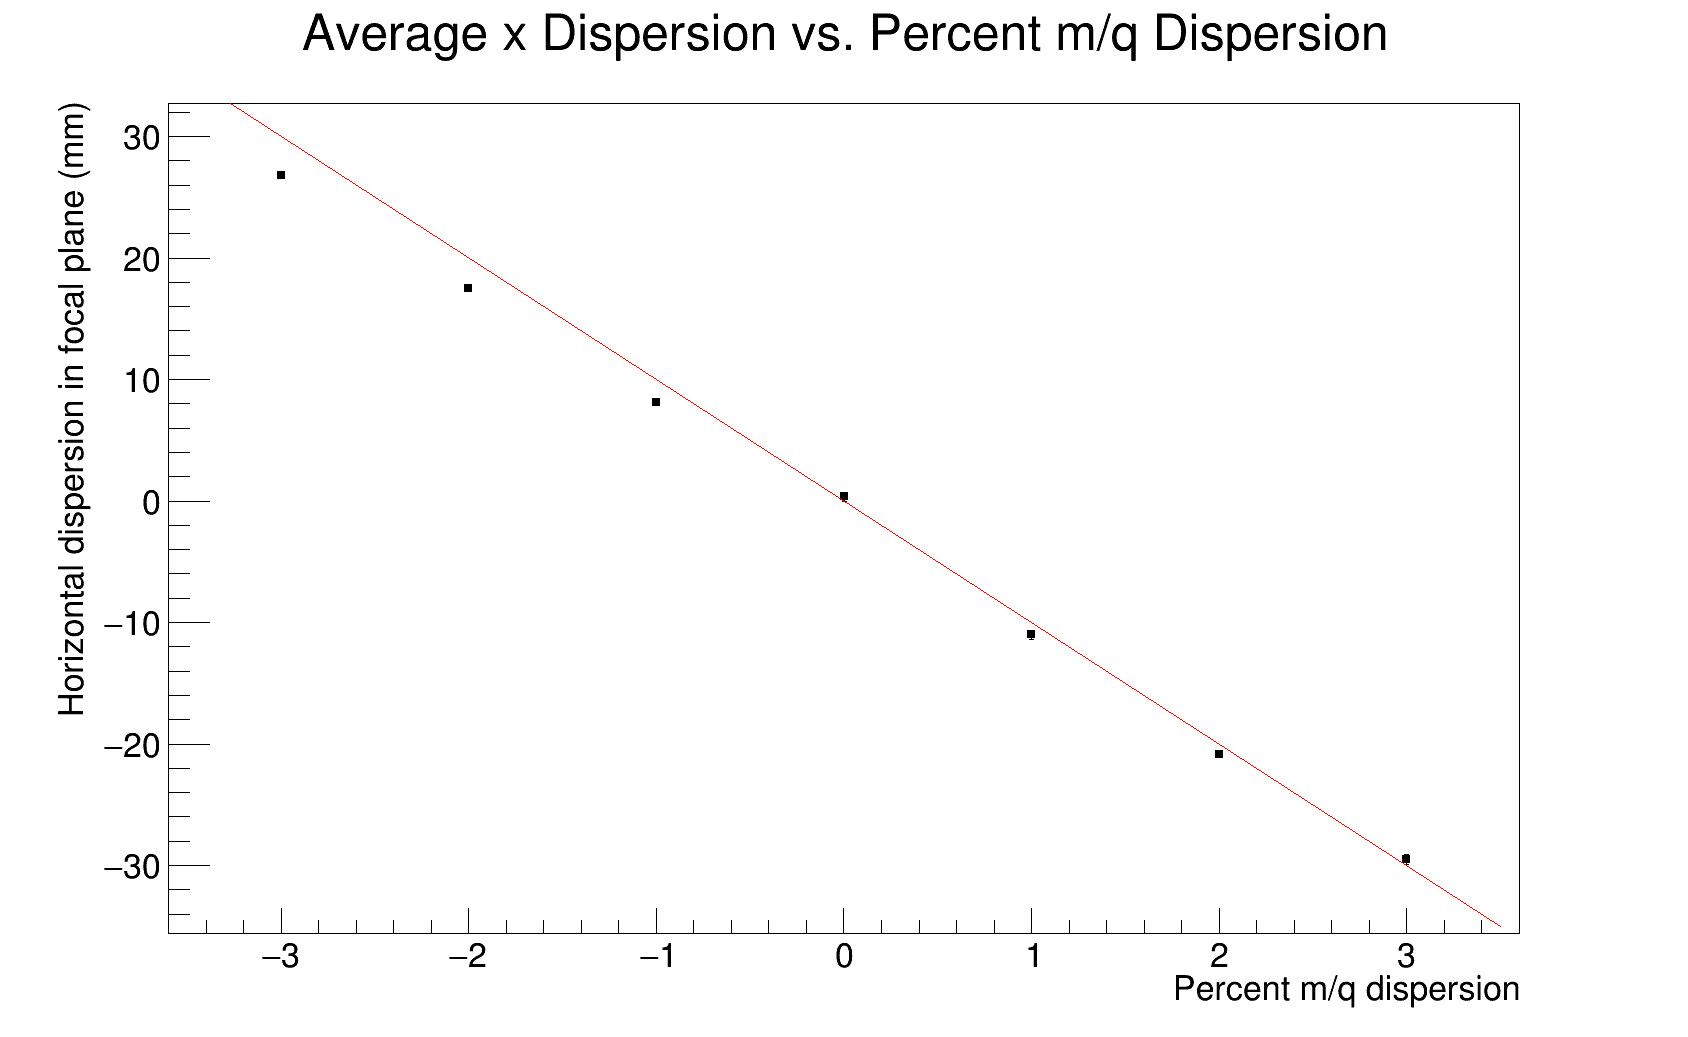
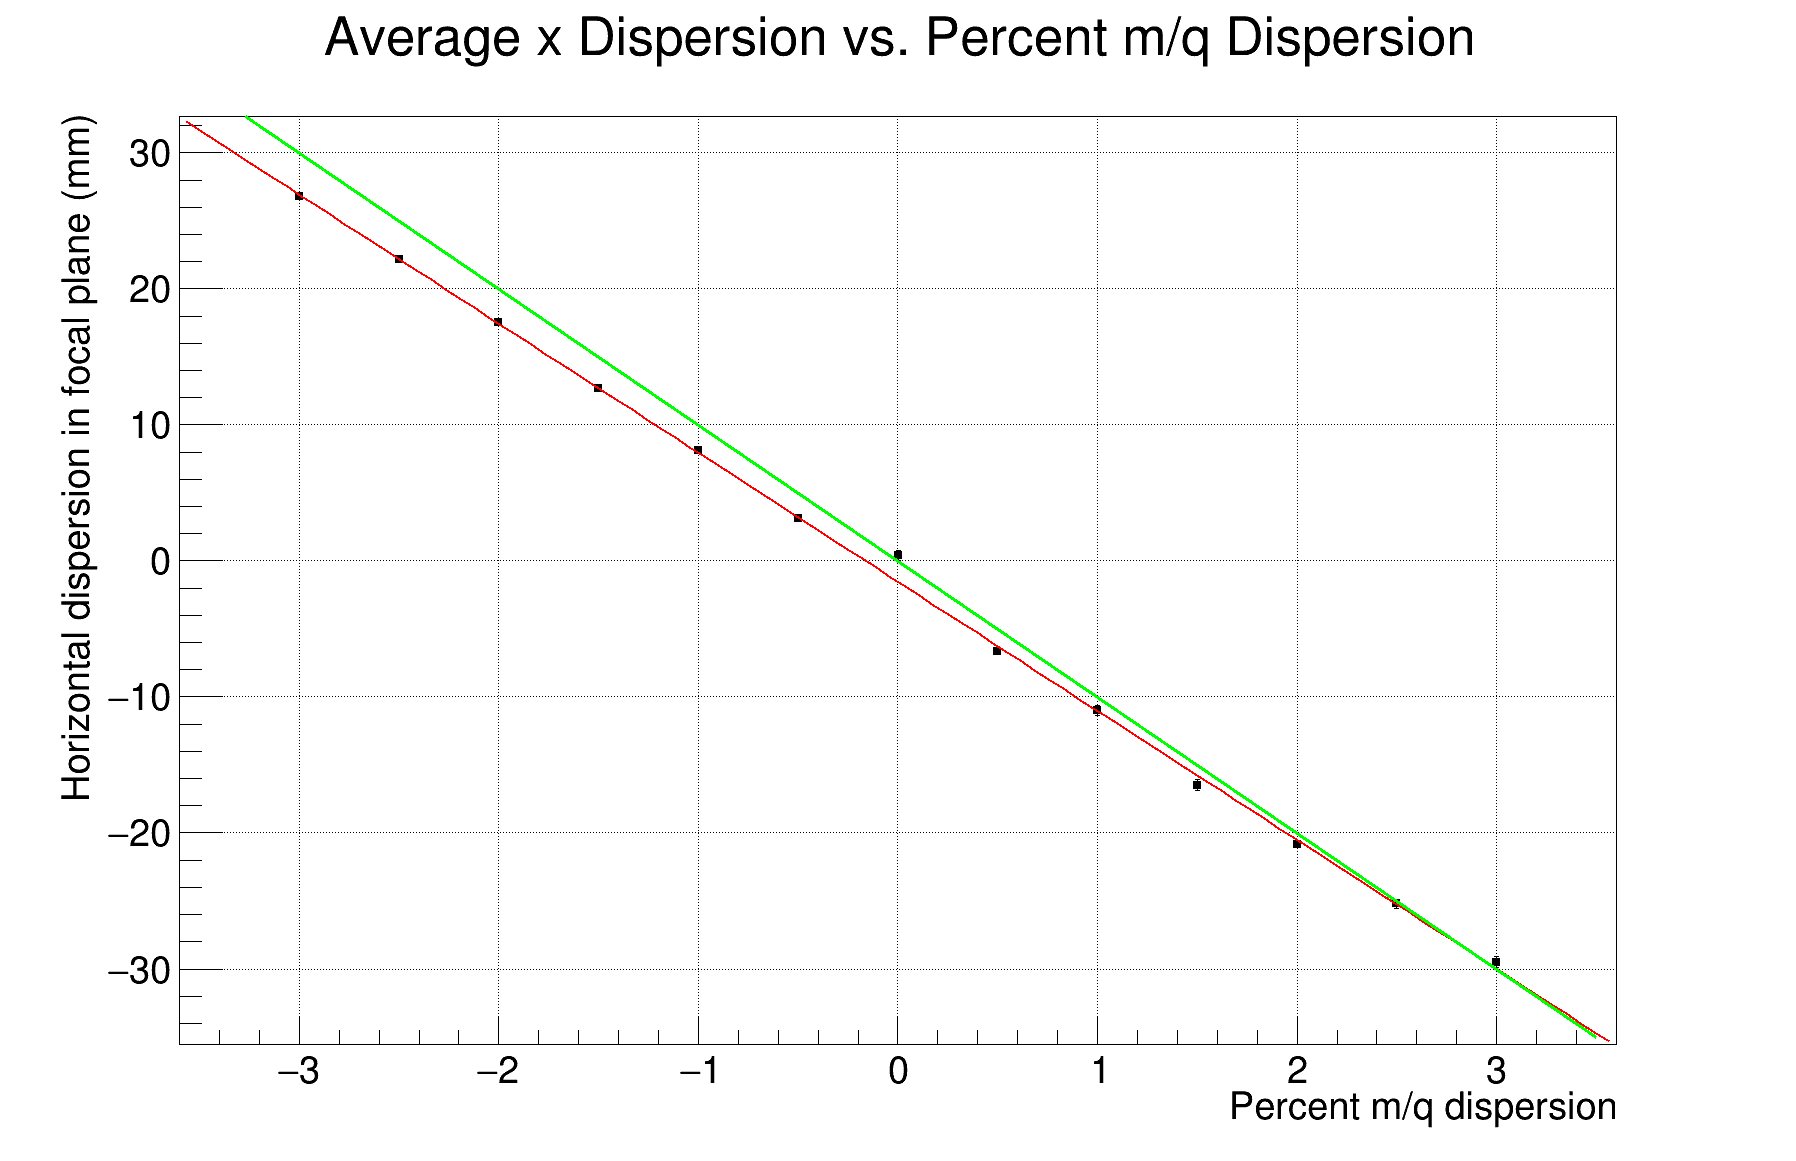
Added more data points to improve the m/q dispersion analysis

diff --git a/root_macros/dispersion_plots.cpp b/root_macros/dispersion_plots.cpp
@@ -21,10 +21,16 @@ void dispersion_plots() {
   TFile *p1_file = new TFile("/home/awen/G4EMMA_data/Disp_test_+1/Results/GEMMAoutput.root");
   TFile *p2_file = new TFile("/home/awen/G4EMMA_data/Disp_test_+2/Results/GEMMAoutput.root");
   TFile *p3_file = new TFile("/home/awen/G4EMMA_data/Disp_test_+3/Results/GEMMAoutput.root");
+  TFile *p0p5_file = new TFile("/home/awen/G4EMMA_data/Disp_test_+0.5/Results/GEMMAoutput.root");
+  TFile *p1p5_file = new TFile("/home/awen/G4EMMA_data/Disp_test_+1.5/Results/GEMMAoutput.root");
+  TFile *p2p5_file = new TFile("/home/awen/G4EMMA_data/Disp_test_+2.5/Results/GEMMAoutput.root");
 
   TFile *m1_file = new TFile("/home/awen/G4EMMA_data/Disp_test_-1/Results/GEMMAoutput.root");
   TFile *m2_file = new TFile("/home/awen/G4EMMA_data/Disp_test_-2/Results/GEMMAoutput.root");
   TFile *m3_file = new TFile("/home/awen/G4EMMA_data/Disp_test_-3/Results/GEMMAoutput.root");
+  TFile *m0p5_file = new TFile("/home/awen/G4EMMA_data/Disp_test_-0.5/Results/GEMMAoutput.root");
+  TFile *m1p5_file = new TFile("/home/awen/G4EMMA_data/Disp_test_-1.5/Results/GEMMAoutput.root");
+  TFile *m2p5_file = new TFile("/home/awen/G4EMMA_data/Disp_test_-2.5/Results/GEMMAoutput.root");
 
   // create a new file in case I want to write anything to save
   //TFile *file = new TFile("acceptance_plots.root","RECREATE");
@@ -35,14 +41,20 @@ void dispersion_plots() {
   TTree *p1_tree = (TTree*)p1_file->Get("fphits");
   TTree *p2_tree = (TTree*)p2_file->Get("fphits");
   TTree *p3_tree = (TTree*)p3_file->Get("fphits");
+  TTree *p0p5_tree = (TTree*)p0p5_file->Get("fphits");
+  TTree *p1p5_tree = (TTree*)p1p5_file->Get("fphits");
+  TTree *p2p5_tree = (TTree*)p2p5_file->Get("fphits");
 
   TTree *m1_tree = (TTree*)m1_file->Get("fphits");
   TTree *m2_tree = (TTree*)m2_file->Get("fphits");
   TTree *m3_tree = (TTree*)m3_file->Get("fphits");
+  TTree *m0p5_tree = (TTree*)m0p5_file->Get("fphits");
+  TTree *m1p5_tree = (TTree*)m1p5_file->Get("fphits");
+  TTree *m2p5_tree = (TTree*)m2p5_file->Get("fphits");
 
   // data variables
 
-  Double_t z_x, p1, p2, p3, m1, m2, m3;
+  Double_t z_x, p1, p2, p3, p0p5, p1p5, p2p5, m1, m2, m3, m0p5, m1p5, m2p5;
 
 // /^(o.o)^\ /^(o.o)^\ /^(o.o)^\ /^(o.o)^\ /^(o.o)^\ /^(o.o)^\ /^(o.o)^\ /^(o.o)^\ /^(o.o)^
 
@@ -52,10 +64,16 @@ void dispersion_plots() {
   p1_tree->SetBranchAddress("fp_posX",&p1);
   p2_tree->SetBranchAddress("fp_posX",&p2);
   p3_tree->SetBranchAddress("fp_posX",&p3);
+  p0p5_tree->SetBranchAddress("fp_posX",&p0p5);
+  p1p5_tree->SetBranchAddress("fp_posX",&p1p5);
+  p2p5_tree->SetBranchAddress("fp_posX",&p2p5);
 
   m1_tree->SetBranchAddress("fp_posX",&m1);
   m2_tree->SetBranchAddress("fp_posX",&m2);
   m3_tree->SetBranchAddress("fp_posX",&m3);
+  m0p5_tree->SetBranchAddress("fp_posX",&m0p5);
+  m1p5_tree->SetBranchAddress("fp_posX",&m1p5);
+  m2p5_tree->SetBranchAddress("fp_posX",&m2p5);
 
   Int_t nentries = (Int_t)z_tree->GetEntries();
 
@@ -67,10 +85,17 @@ void dispersion_plots() {
   TH1F* p1_hist = new TH1F("p1","p1",100000,-50,50);
   TH1F* p2_hist = new TH1F("p2","p2",100000,-50,50);
   TH1F* p3_hist = new TH1F("p3","p3",100000,-50,50);
+  TH1F* p0p5_hist = new TH1F("p0p5","p0p5",100000,-50,50);
+  TH1F* p1p5_hist = new TH1F("p1p5","p1p5",100000,-50,50);
+  TH1F* p2p5_hist = new TH1F("p2p5","p2p5",100000,-50,50);
 
   TH1F* m1_hist = new TH1F("m1","m1",100000,-50,50);
   TH1F* m2_hist = new TH1F("m2","m2",100000,-50,50);
   TH1F* m3_hist = new TH1F("m3","m3",100000,-50,50);
+  TH1F* m0p5_hist = new TH1F("m0p5","m0p5",100000,-50,50);
+  TH1F* m1p5_hist = new TH1F("m1p5","m1p5",100000,-50,50);
+  TH1F* m2p5_hist = new TH1F("m2p5","m2p5",100000,-50,50);
+
 
 
 // /^(o.o)^\ /^(o.o)^\ /^(o.o)^\ /^(o.o)^\ /^(o.o)^\ /^(o.o)^\ /^(o.o)^\ /^(o.o)^\ /^(o.o)^
@@ -82,54 +107,75 @@ void dispersion_plots() {
     p1_tree->GetEntry(i);
     p2_tree->GetEntry(i);
     p3_tree->GetEntry(i);
+    p0p5_tree->GetEntry(i);
+    p1p5_tree->GetEntry(i);
+    p2p5_tree->GetEntry(i);
     m1_tree->GetEntry(i);
     m2_tree->GetEntry(i);
     m3_tree->GetEntry(i);
+    m0p5_tree->GetEntry(i);
+    m1p5_tree->GetEntry(i);
+    m2p5_tree->GetEntry(i);
 
     z_hist->Fill(z_x);
     p1_hist->Fill(p1);
     p2_hist->Fill(p2);
     p3_hist->Fill(p3);
+    p0p5_hist->Fill(p0p5);
+    p1p5_hist->Fill(p1p5);
+    p2p5_hist->Fill(p2p5);
     m1_hist->Fill(m1);
     m2_hist->Fill(m2);
     m3_hist->Fill(m3);
+    m0p5_hist->Fill(m0p5);
+    m1p5_hist->Fill(m1p5);
+    m2p5_hist->Fill(m2p5);
 
   }
 
 // define the variables that we are interested in finding
-Double_t z_mean, p1_mean, p2_mean, p3_mean, m1_mean, m2_mean, m3_mean;
-Double_t z_stdev, p1_stdev, p2_stdev, p3_stdev, m1_stdev, m2_stdev, m3_stdev;
+Double_t z_mean, p1_mean, p2_mean, p3_mean, p0p5_mean, p1p5_mean, p2p5_mean, m1_mean, m2_mean, m3_mean, m0p5_mean, m1p5_mean, m2p5_mean;
+Double_t z_stdev, p1_stdev, p2_stdev, p3_stdev, p0p5_stdev,p1p5_stdev,p2p5_stdev, m1_stdev, m2_stdev, m3_stdev, m0p5_stdev,m1p5_stdev,m2p5_stdev;
 
 // get the mean and stdev from the histogram values, so they can be plotted
 z_mean = z_hist->GetMean();   z_stdev = z_hist->GetStdDev();
 p1_mean = p1_hist->GetMean(); p1_stdev = p1_hist->GetStdDev();
 p2_mean = p2_hist->GetMean(); p2_stdev = p2_hist->GetStdDev();
 p3_mean = p3_hist->GetMean(); p3_stdev = p3_hist->GetStdDev();
+p0p5_mean = p0p5_hist->GetMean(); p0p5_stdev = p0p5_hist->GetStdDev();
+p1p5_mean = p1p5_hist->GetMean(); p1p5_stdev = p1p5_hist->GetStdDev();
+p2p5_mean = p2p5_hist->GetMean(); p2p5_stdev = p2p5_hist->GetStdDev();
 m1_mean = m1_hist->GetMean(); m1_stdev = m1_hist->GetStdDev();
 m2_mean = m2_hist->GetMean(); m2_stdev = m2_hist->GetStdDev();
 m3_mean = m3_hist->GetMean(); m3_stdev = m3_hist->GetStdDev();
+m0p5_mean = m0p5_hist->GetMean(); m0p5_stdev = m0p5_hist->GetStdDev();
+m1p5_mean = m1p5_hist->GetMean(); m1p5_stdev = m1p5_hist->GetStdDev();
+m2p5_mean = m2p5_hist->GetMean(); m2p5_stdev = m2p5_hist->GetStdDev();
 
 // /^(o.o)^\ /^(o.o)^\ /^(o.o)^\ /^(o.o)^\ /^(o.o)^\ /^(o.o)^\ /^(o.o)^\ /^(o.o)^\ /^(o.o)^
 
-const Int_t n = 7;
-Float_t x[n] = {-3.0,-2.0,-1.0,0.0,1.0,2.0,3.0};
-Float_t y[n] = {m3_mean, m2_mean, m1_mean, z_mean, p1_mean, p2_mean, p3_mean};
-Float_t ey[n] = {m3_stdev, m2_stdev, m1_stdev, z_stdev, p1_stdev, p2_stdev, p3_stdev};
-Float_t ex[n] = {0,0,0,0,0,0,0};
+const Int_t n = 13;
+Float_t x[n] = {-3.0,-2.5,-2.0,-1.5,-1.0,-0.5,0.0,0.5,1.0,1.5,2.0,2.5,3.0};
+Float_t y[n] = {m3_mean, m2p5_mean, m2_mean, m1p5_mean, m1_mean, m0p5_mean, z_mean, p0p5_mean, p1_mean, p1p5_mean, p2_mean, p2p5_mean, p3_mean};
+Float_t ey[n] = {m3_stdev, m2p5_stdev, m2_stdev, m1p5_stdev, m1_stdev, m0p5_stdev, z_stdev, p0p5_stdev, p1_stdev, p1p5_stdev, p2_stdev, p2p5_stdev, p3_stdev};
+Float_t ex[n] = {0,0,0,0,0,0,0,0,0,0,0,0,0};
 TGraphErrors *graph = new TGraphErrors(n,x,y,ex,ey);
 graph->SetTitle("Average x Dispersion vs. Percent m/q Dispersion");
 graph->GetXaxis()->SetTitle("Percent m/q dispersion");
 graph->GetYaxis()->SetTitle("Horizontal dispersion in focal plane (mm)");
+graph->Fit("pol1");
 graph->SetMarkerStyle(21);
 
 const Int_t n2 = 2;
 Float_t x2[n] = {-3.5,3.5};
 Float_t y2[n] = {35.0,-35.0};
 TGraph *graph2 = new TGraph(n2,x2,y2);
-graph2->SetLineColor(2); 
+graph2->SetLineColor(3);
+graph2->SetLineWidth(3);
 
 TCanvas *canvas = new TCanvas("canvas","graph");
 canvas->cd();
+canvas->SetGrid();
 graph->Draw("AP");
 graph2->Draw("L");
 
